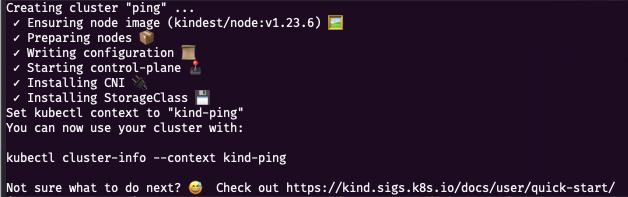
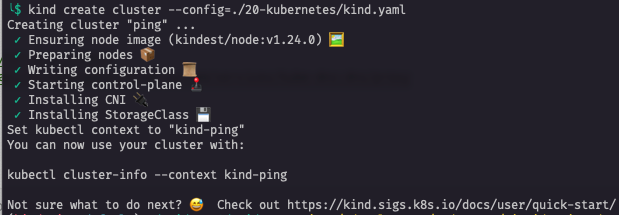
updated configuration files and docs to reflect updates to to kind cluster (#405)

Changed region(s): [[0.0, 0.0, 0.6753, 0.7005], [0.0, 0.9137, 1.0, 1.0], [0.0, 0.7614, 0.4604, 0.8528]]

diff --git a/docs/deployment/deployLocalK8sCluster.md b/docs/deployment/deployLocalK8sCluster.md
@@ -22,7 +22,7 @@ This document describes deploying a cluster with [kind](https://kind.sigs.k8s.io
     Docker on Linux is typically installed with root privileges and thus has access to the full resources of the machine. Docker Desktop for Mac and Windows provides a way to set the resources allocated to Docker. For this documentation, a Macbook Pro was configured to use 3 CPUs and 6 GB Memory. You can adjust these values as necessary for your needs.
 
 !!! note "Kubernetes Version"
-    For this guide, the kind implementation of Kubernetes 1.23 is used.
+    For this guide, the kind implementation of Kubernetes 1.24 is used.
 
 ## Steps
 
@@ -43,25 +43,32 @@ This document describes deploying a cluster with [kind](https://kind.sigs.k8s.io
     ```sh
     kubectl cluster-info
 
-    Kubernetes control plane is running at https://127.0.0.1:58527
-    CoreDNS is running at https://127.0.0.1:58527/api/v1/namespaces/kube-system/services/kube-dns:dns/proxy
-    
+    # Output - port will vary
+    Kubernetes control plane is running at https://127.0.0.1:63564
+    CoreDNS is running at https://127.0.0.1:63564/api/v1/namespaces/kube-system/services/kube-dns:dns/proxy
+
+    To further debug and diagnose cluster problems, use 'kubectl cluster-info dump'.
+
+    ------------------
+
     kubectl version --short
-    
+
     < output removed >
-    Server Version: v1.23.6
+    Server Version: v1.24.0
+
+    ------------------
 
     kubectl get nodes
 
-    NAME                 STATUS   ROLES                  AGE   VERSION
-    ping-control-plane   Ready    control-plane,master   14m   v1.23.6
+    NAME                 STATUS   ROLES           AGE     VERSION
+    ping-control-plane   Ready    control-plane   4m26s   v1.24.0
     ```
 
 1. Next, install the nginx-ingress-controller for `kind`. In the event the Github file is unavailable, a copy has been made to this repository [here](https://github.com/pingidentity/pingidentity-devops-getting-started/blob/master/20-kubernetes/kind-nginx.yaml).
 
 To use the Github file:
     ```sh
-    kubectl apply -f https://raw.githubusercontent.com/kubernetes/ingress-nginx/main/deploy/static/provider/kind/1.23/deploy.yaml
+    kubectl apply -f https://raw.githubusercontent.com/kubernetes/ingress-nginx/controller-v1.3.0/deploy/static/provider/kind/1.24/deploy.yaml
     ```
 
 To use the local copy:
